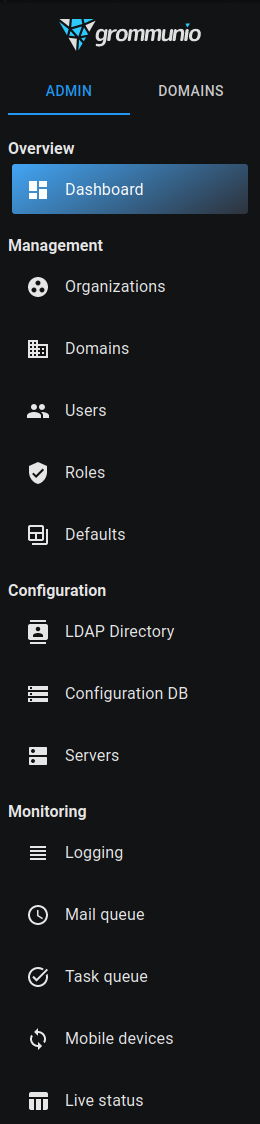
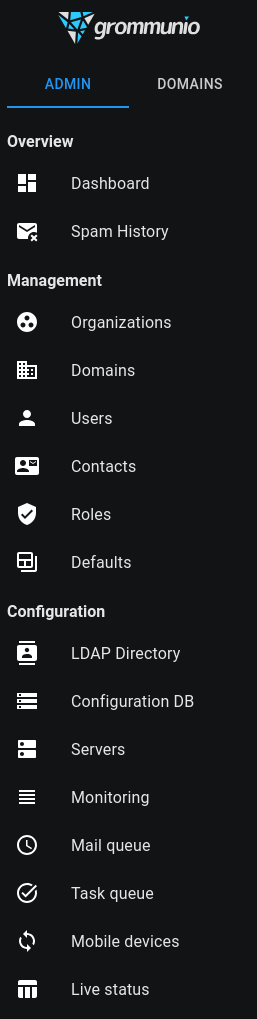
Update aweb screenshots and according docs

Changed region(s): [[0.0311, 0.0, 0.965, 0.8822], [0.249, 0.9127, 0.6848, 1.0], [0.0623, 0.9127, 0.1868, 1.0]]

diff --git a/admin/administration.rst b/admin/administration.rst
@@ -230,8 +230,9 @@ of a user.
 There are 10 main categories of user properties:
 
 - Account: RPC/HTTP (Outlook Anywhere), MAPI/HTTP, IMAP, POP3 etc.
-  configuration
-- User: MAPI props
+  configuration 
+- Alt names: Alternative usernames to log into mail-clients with (does not have to be an e-mail address)
+- Details: MAPI props
 - Contact: Additional MAPI props
 - Roles: Roles of the user
 - SMTP: Additional e-mails for this user (aliases) and forwarding rules
@@ -248,7 +249,7 @@ Account
 The following properties can be edited:
 
 - Username
-- Mode: Mailbox mode, toggle between a normal user and a shared mailbox
+- Mode: Mailbox mode, select between a normal user, a suspended user and a shared mailbox
 - Type: Type of user
 - Homeserver: Server on which the user's data is stored
 - Language: Store language of the user (does not effect the language of the UI)
@@ -259,6 +260,8 @@ The following properties can be edited:
      is blocked
    - Storage quota limit: Maximum size of the mailbox before storing (any kind
      of) objects is blocked
+- Hide user from: Hide user from specific user lists (e.g. the global address list)
+- Automatic processing of meeting requests: Trivial
 - Create grommunio-chat user: Creates a grommunio-chat account for this user. If this checkbox is disabled, there is no grommunio-chat team for this domain.
 - grommunio-chat admin permission: Gives administrative permissions for grommunio-chat to this user's grommunio-chat account.
 - grommunio-chat permissions: Grants grommunio-chat admin permissions
@@ -649,24 +652,20 @@ These values can be overwritten for each domain in the domain overviews:
 Settings
 --------
 
-To change global settings, click on the User icon and `Settings`
+Settings are split into server and user settings.
 
-.. image:: _static/img/user_icon.png
+To change language, darkmode or theme, use the respective buttons in the topbar or the user icon
+
+.. image:: _static/img/user_settings.png
    :alt: user icon
 
-Currently you can only change
+Server settings can be changed by clicking the settings icon in the topbar:
 
-- Language: Swap between English and German
-- Darkmode: Swap between light- and Darkmode
-
+.. image:: _static/img/server_settings.png
+   :alt: server settings
 
 License
 -------
-
-To see details on your grommunio license, click on the License icon in the Topbar.
-
-.. image:: _static/img/license_icon.png
-   :alt: license icon
 
 To use the full potential of grommunio you can upload your license by clicking
 `Upload` and selecting your purchased license.
@@ -691,9 +690,8 @@ If you click on the expansion icon next to the users count, you can see what use
 Design
 ------
 
-Admins have the ability to whitelabel the app for `all` users.
-There is a basic input mask located at the `License` page,
-which helps you set custom app icons and background images.
+Admins have the ability to whitelabel the grommunio-admin-web for `all` grommunio-admin-web users.
+There is a basic input mask, which helps you set custom app icons and background images.
 
 It is possible to create separate sets of images for different hostnames.
 Click the plus icon to create a new set of images for a hostname.
@@ -714,6 +712,18 @@ As you can see, it is not necessary to overwrite every image, but the hostnames 
 
 Click on the `Show config` button to display the ``customImages`` config object,
 which needs to be copied into ``/etc/grommunio-admin-common/config.json`` on the server.
+
+
+Updates
+-------
+
+It is possible to update and upgrade server packages within grommunio-admin-web.
+
+- Choose repository: Community (publicly available) or Supported (license required)
+- Check for updates, update or upgrade packages by clicking the respective buttons
+
+.. image:: _static/img/updates.png
+   :alt: updates
 
 
 LDAP
